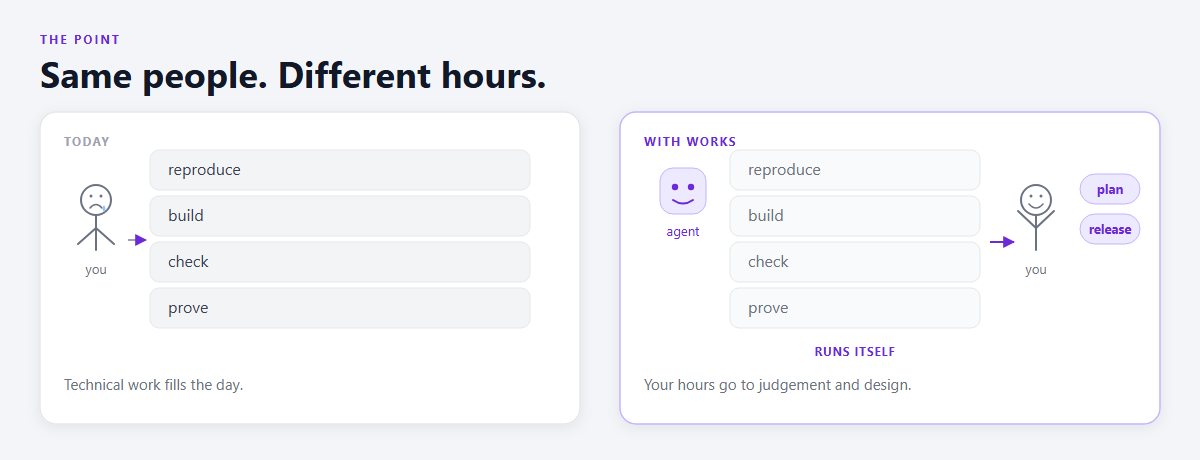
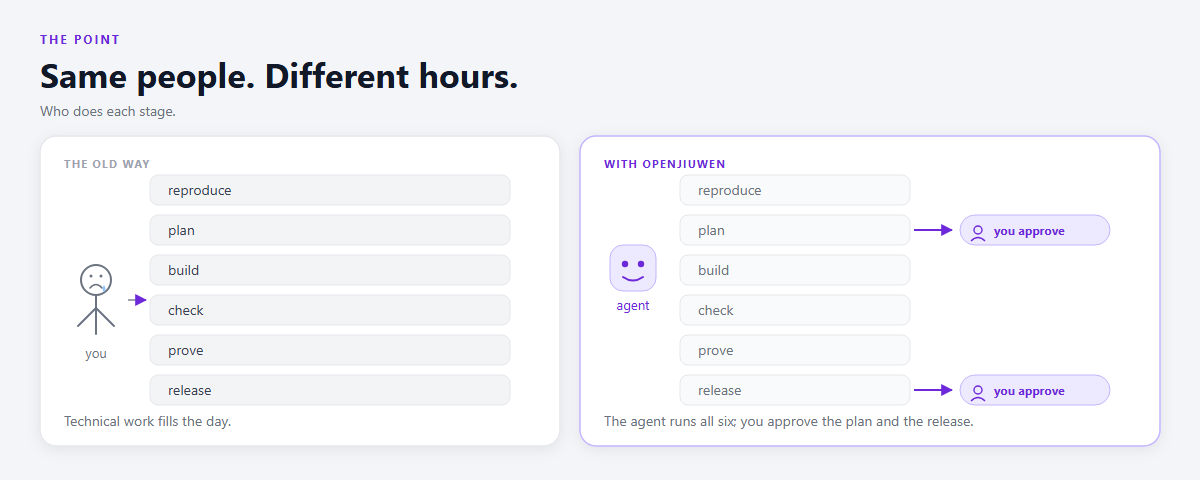
docs: show the old way next to openJiuwen in the point diagram

diff --git a/README.md b/README.md
@@ -29,7 +29,7 @@ plan and the release — and spend their time on the problems that actually need
 team whose hours go to judgement and design.
 
 <div align="center">
-  <img src="docs/ui/the-point.png" alt="Today technical work fills the day; with Works the agent runs reproduce, build, check and prove, and the person makes the plan and release decisions" width="100%" />
+  <img src="docs/ui/the-point.png" alt="The old way: one person does all six stages. With openJiuwen: the agent runs all six, and the person approves the plan and the release" width="100%" />
 </div>
 
 ## What it does
